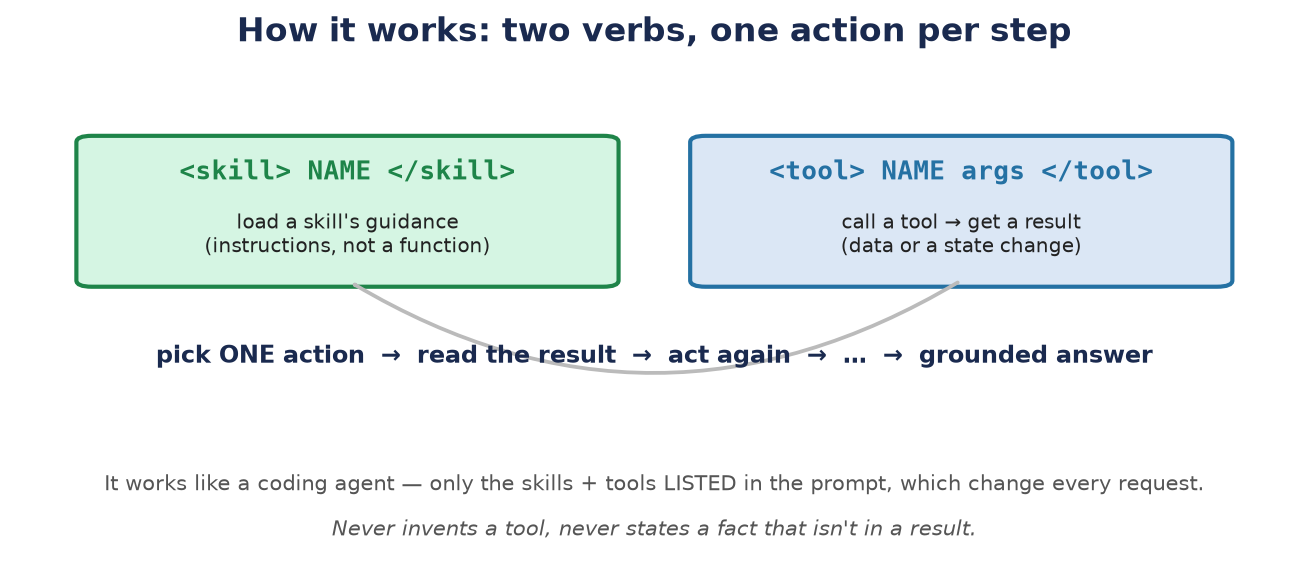
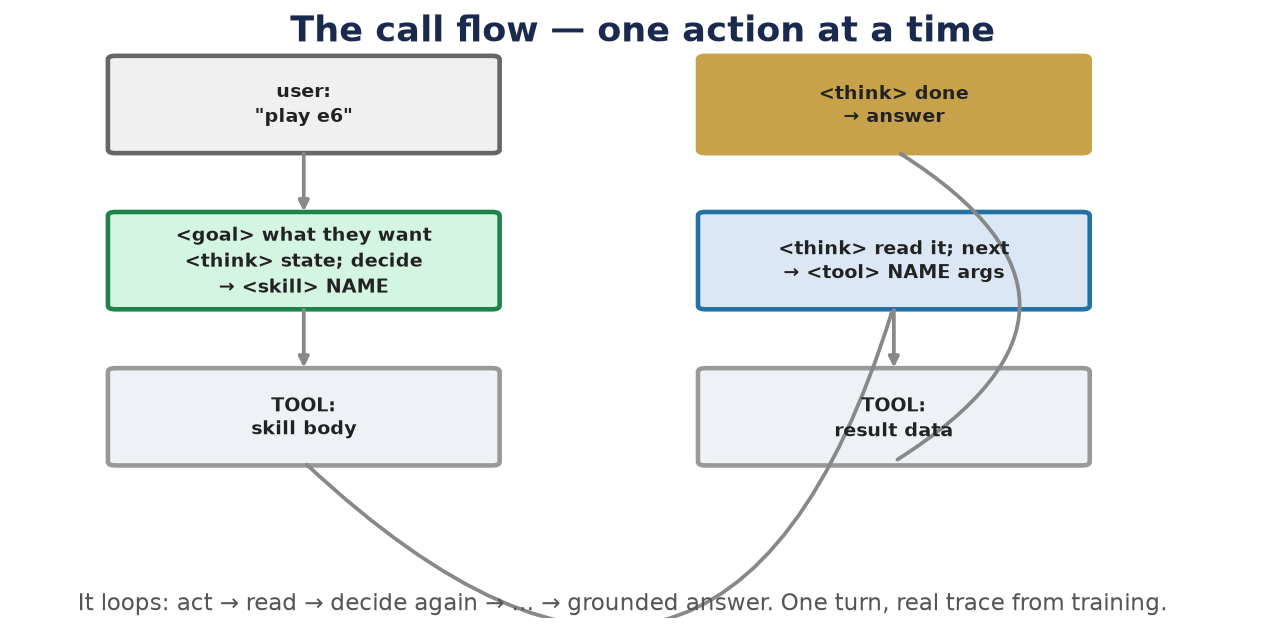
feat(report): redesigned loop/modes as visual flowcharts + restored comparison chart
User: "too much text. Stay heavy on visuals and light text! Like flow chart"

03-how-it-works: replaced the 8-panel text trace with a Z-pattern CALL-FLOW diagram —
6 boxes (user → <skill> → body → <tool> → data → answer), minimal text per node,
arrows showing the decision loop. Pure flowchart.

03b-reasoning-modes: replaced the dense example cards with CLEAN VISUAL CARDS —
just the mode name (big), one rule line (<goal>/<think> presence), and a short
example quote. No walls of text.

08-result-comparison: restored the GROUPED BAR comparison chart (E4B base+harness
49.6% vs v4 adapter+harness 88.7%, +39.1% delta, tool FP 55→7 in caption).
Replaces the old big_compare 50%→89% slide.

chart_data.py: COND_VAL updated to NATIVE numbers (88.7%/49.6%, not the stale forced-fast
96%/83%) and VERSIONS v4 verb fixed to 0.887 (was 0.964).

Changed region(s): [[0.0311, 0.0, 0.965, 0.8182], [0.0623, 0.8182, 0.9339, 0.9697]]

diff --git a/src/llm/llm_training/report/deck.py b/src/llm/llm_training/report/deck.py
@@ -1,13 +1,5 @@
-"""Presentation deck — the STORY arc (GPU-free), matching the talk: meet the model → it's local →
-small-but-thinks → how we trained it → the data → it floors out fast → (chats, shown live) → does it
-work. This module renders only the FACTUAL / DATA visuals (pipeline+knobs, the think-loop diagram, the
-real loss curve, the benchmark wins). The illustrative brand slides (meet-the-model, it's-local) are
-AI-generated by the presenter from docs/report/slide-visuals.md. stat/curve helpers live in deck_stats,
-the data chart in charts. `main()` renders the whole data set in one call.
-
-Every number traces to a real artifact: hyperparameters from run_train.py; infra from memory
-train-serve-infra-facts (Kaggle 2×T4 ×3 accounts ~135 GPU-h; serve Colab 1×T4); loss from
-runs/full_train.log; benchmarks from docs/report/README.md §3. Nothing fabricated.
+"""Presentation deck — FACTUAL/DATA visuals for the talk arc. Brand slides are AI-gen (prompts in
+slide-visuals.md). Main() renders the ordered set. All numbers from real artifacts (README §3).
   python -m llm_training.report.deck [--out docs/findings/report_assets]"""
 from __future__ import annotations
 
@@ -76,69 +68,76 @@ def pipeline(out: Path) -> Path:
 
 
 def thinks(out: Path) -> Path:
-    """The harness contract — the FACTUAL loop (system_prompt.BASE_HARNESS): two verbs, exactly ONE
-    action per step, then read the result and loop. NOT a fixed think→skill→tool chain."""
+    """CALL-FLOW diagram: the TWO-VERB loop. One real think-mode trace (slice A).
+    Minimal text per node — the visual IS the explanation."""
     plt = _plt()
-    from matplotlib.patches import FancyArrowPatch, FancyBboxPatch
-    fig, ax = plt.subplots(figsize=(11.0, 4.6)); fig.patch.set_facecolor("white")
+    from matplotlib.patches import FancyBboxPatch, FancyArrowPatch
+    fig, ax = plt.subplots(figsize=(10.8, 5.2)); fig.patch.set_facecolor("white")
     ax.set_xlim(0, 1); ax.set_ylim(0, 1); ax.axis("off")
-    ax.text(0.5, 0.95, "How it works: two verbs, one action per step", ha="center", fontsize=16,
-            fontweight="bold", color=NAVY)
-    # the two verbs
-    ax.add_patch(FancyBboxPatch((0.06, 0.50), 0.40, 0.26, boxstyle="round,pad=0.012",
-                                fc="#d5f5e3", ec="#1e8449", lw=2.0))
-    ax.text(0.26, 0.69, "<skill> NAME </skill>", ha="center", fontsize=12.5, fontweight="bold",
-            color="#1e8449", family="DejaVu Sans Mono")
-    ax.text(0.26, 0.585, "load a skill's guidance\n(instructions, not a function)", ha="center",
-            va="center", fontsize=9.5, color="#222")
-    ax.add_patch(FancyBboxPatch((0.54, 0.50), 0.40, 0.26, boxstyle="round,pad=0.012",
-                                fc="#dbe7f5", ec="#2471a3", lw=2.0))
-    ax.text(0.74, 0.69, "<tool> NAME args </tool>", ha="center", fontsize=12.5, fontweight="bold",
-            color="#2471a3", family="DejaVu Sans Mono")
-    ax.text(0.74, 0.585, "call a tool → get a result\n(data or a state change)", ha="center",
-            va="center", fontsize=9.5, color="#222")
-    # the loop: act -> read result -> act again (a return arc under the verb boxes)
-    ax.add_patch(FancyArrowPatch((0.74, 0.50), (0.26, 0.50), connectionstyle="arc3,rad=-0.30",
-                                 arrowstyle="-|>", lw=1.8, color="#bbb"))
-    ax.text(0.5, 0.345, "pick ONE action  →  read the result  →  act again  →  …  →  grounded answer",
-            ha="center", fontsize=11.5, color=NAVY, fontweight="bold")
-    ax.text(0.5, 0.105, "It works like a coding agent — only the skills + tools LISTED in the prompt, "
-            "which change every request.", ha="center", fontsize=10, color="#555")
-    ax.text(0.5, 0.02, "Never invents a tool, never states a fact that isn't in a result.",
-            ha="center", fontsize=10, color="#555", fontstyle="italic")
+    ax.text(0.5, 0.96, "The call flow — one action at a time",
+            ha="center", fontsize=17, fontweight="bold", color=NAVY)
+    # 6 nodes in a Z-pattern: user → <skill> → result → <tool> → result → answer
+    nodes = [
+        ("user:\n\"play e6\"", 0.08, 0.78, "#f0f0f0", "#666"),
+        ("<goal> what they want\n<think> state; decide\n→ <skill> NAME", 0.08, 0.52, "#d5f5e3", "#1e8449"),
+        ("TOOL:\nskill body", 0.08, 0.26, "#eef2f7", "#999"),
+        ("<think> read it; next\n→ <tool> NAME args", 0.55, 0.52, "#dbe7f5", "#2471a3"),
+        ("TOOL:\nresult data", 0.55, 0.26, "#eef2f7", "#999"),
+        ("<think> done\n→ answer", 0.55, 0.78, GOLD, GOLD),
+    ]
+    w, h = 0.30, 0.15
+    for label, x, y, fc, ec in nodes:
+        ax.add_patch(FancyBboxPatch((x, y), w, h, boxstyle="round,pad=0.006", fc=fc, ec=ec, lw=2.2))
+        ax.text(x + w/2, y + h/2, label, ha="center", va="center", fontsize=9.2,
+                color="#222", linespacing=1.3, fontweight="bold")
+    # arrows
+    _ar(ax, 0.23, 0.78, 0.23, 0.67)           # user → <skill>
+    _ar(ax, 0.23, 0.52, 0.23, 0.41)           # <skill> → body
+    _ar(ax, 0.23, 0.26, 0.70, 0.52, 80)       # body → <tool> (cross)
+    _ar(ax, 0.70, 0.52, 0.70, 0.41)           # <tool> → data
+    _ar(ax, 0.70, 0.26, 0.70, 0.78, 80)       # data → answer (cross, close loop)
+    # labels
+    fig.text(0.5, 0.12, "It loops: act → read → decide again → … → grounded answer. "
+             "One turn, real trace from training.", ha="center", fontsize=11, color="#555")
     fig.savefig(out, dpi=150, bbox_inches="tight"); plt.close(fig)
     print(f"wrote {out}", flush=True)
     return out
 
+def _ar(ax, x0, y0, x1, y1, rad=0):
+    from matplotlib.patches import FancyArrowPatch
+    if rad:
+        ax.add_patch(FancyArrowPatch((x0, y0), (x1, y1), connectionstyle=f"arc3,rad={rad/100}",
+                     arrowstyle="-|>", lw=1.8, color="#888"))
+    else:
+        ax.annotate("", (x1, y1), (x0, y0), arrowprops=dict(arrowstyle="-|>", lw=1.8, color="#888"))
 
 def modes(out: Path) -> Path:
-    """The four reasoning modes the model was trained to switch between (system_prompt._REASONING_LINE).
-    A small model that 'can't think' — taught to think only as much as the task needs."""
+    """The 4 reasoning modes as VISUAL CARDS. Big name. One rule. Example on hover."""
     plt = _plt()
     from matplotlib.patches import FancyBboxPatch
-    fig, ax = plt.subplots(figsize=(11.2, 5.0)); fig.patch.set_facecolor("white")
+    fig, ax = plt.subplots(figsize=(11.2, 4.4)); fig.patch.set_facecolor("white")
     ax.set_xlim(0, 1); ax.set_ylim(0, 1); ax.axis("off")
-    ax.text(0.5, 0.95, "Taught to think — only as much as the task needs", ha="center", fontsize=16,
+    ax.text(0.5, 0.94, "One model — four reasoning modes", ha="center", fontsize=17,
             fontweight="bold", color=NAVY)
     cards = [
-        ("FAST", "#aeb8c7", "no thinking —\nanswer directly", "“what's a fork?”"),
-        ("THINK", "#2471a3", "<think> before\nEVERY step", "careful, show-the-work"),
-        ("AUTO", "#1e8449", "<think> ONLY on\nthe hard choices", "the everyday default"),
-        ("PLAN", "#c8a24a", "<goal> + a <plan>\nchecklist, do every box", "multi-step requests"),
+        ("FAST", "#7a8699", "no <goal> · no <think>", "“push Ba6”"),
+        ("THINK", "#2471a3", "<goal> once · <think> every step", "“yo, e6 for me”"),
+        ("AUTO", "#1e8449", "<goal> once · <think> only on hard calls", "“play Qa4+ pls”"),
+        ("PLAN", "#c8a24a", "<goal> all · <plan> checklist", "“debug this; break down that”"),
     ]
-    w, gap, y, h = 0.215, 0.025, 0.30, 0.42
+    w, gap, y, h = 0.225, 0.023, 0.32, 0.48
     x0 = 0.5 - (4 * w + 3 * gap) / 2
-    for i, (name, ec, what, ex) in enumerate(cards):
+    for i, (name, ec, rule, ex) in enumerate(cards):
         x = x0 + i * (w + gap)
-        ax.add_patch(FancyBboxPatch((x, y), w, h, boxstyle="round,pad=0.012", fc="white", ec=ec, lw=2.4))
-        ax.text(x + w / 2, y + h - 0.06, name, ha="center", va="top", fontsize=14, fontweight="bold", color=ec)
-        ax.text(x + w / 2, y + h * 0.50, what, ha="center", va="center", fontsize=10, color="#222")
-        ax.text(x + w / 2, y + 0.05, ex, ha="center", va="center", fontsize=8.5,
-                color="#666", fontstyle="italic")
-    ax.text(0.5, 0.165, "Same model — it picks the mode from a signal in the prompt.",
+        ax.add_patch(FancyBboxPatch((x, y), w, h, boxstyle="round,pad=0.014", fc="white", ec=ec, lw=2.6))
+        ax.text(x + w/2, y + h - 0.08, name, ha="center", va="top", fontsize=17, fontweight="bold", color=ec)
+        ax.text(x + w/2, y + h - 0.24, rule, ha="center", va="top", fontsize=9.5, color="#333")
+        ax.text(x + w/2, y + 0.04, ex, ha="center", va="bottom", fontsize=8, color="#888",
+                fontstyle="italic")
+    ax.text(0.5, 0.17, "Same contract: <skill> loads guidance · <tool> calls a function · one per step.",
             ha="center", fontsize=11, color="#333")
-    ax.text(0.5, 0.075, "A 4B model that isn't a natural reasoner — we trained the reasoning IN, "
-            "and the restraint to not over-think.", ha="center", fontsize=10, color="#555")
+    ax.text(0.5, 0.07, "A 4B model that isn't a natural reasoner — we trained the reasoning IN, "
+            "and the restraint to not over-think.", ha="center", fontsize=9.5, color="#555")
     fig.savefig(out, dpi=150, bbox_inches="tight"); plt.close(fig)
     print(f"wrote {out}", flush=True)
     return out
@@ -173,15 +172,19 @@ def main() -> None:
     # 8 · does it work — TWO results, framed as TWO DIFFERENT QUESTIONS so they don't read as
     # comparable. EXACT numbers (88.7 / 91.7), never rounded, so they match the confusion backup and
     # don't look fudged. The 55->7 / F1 detail lives ONLY on the confusion backup (no redundant slide).
-    S.big_compare("49.6%", "88.7%", "base model", "after fine-tuning",
-                  "Q1 · Does it pick the right action?  (routing)",
-                  "Held-out chess val, n=142. The base over-fired tools (55 false-calls → 7); the "
-                  "fine-tune taught it when to load a skill vs call a tool.", o / "08-result-routing.png")
+    # 08 · comparison chart: base+harness vs adapter+harness (grouped bars, native numbers)
+    comparison_labels = {
+        "E4B base\n+ harness": {"verb": 0.496},
+        "E4B v4 adapter\n+ harness": {"verb": 0.887},
+    }
+    S.comparison(comparison_labels, o / "08-result-comparison.png",
+                 title="Does fine-tuning help? Verb accuracy (held-out val, n=142)")
+    # 09 · generalization (different test — framed as Q2 to avoid "91.7 vs 88.7 = drop" confusion)
     S.big_single("91.7%", "Q2 · Can it finish a task in a domain it never trained on?",
                  "tasks completed on real cooking / music / wellness / tax prompts (n=60, 95% grounded) — "
                  "a DIFFERENT test from Q1, so this isn't a drop from 88.7%.",
                  ["cooking", "music", "wellness", "tax"], o / "09-result-generalizes.png")
-    # BACKUP only (not in the main flow): the per-class proof. Same 88.7% as the routing slide.
+    # BACKUP (not in the main flow): the per-class proof. Same 88.7% as the comparison.
     ppt_charts.confusion_matrix(ADAPTER_CM, ["skill", "tool", "none"], o / "backup-confusion.png",
                                 CM_CAPTION, title="Where it routes right — E4B v4 adapter (val)")
     print(f"\nStory deck rendered into {o}", flush=True)

diff --git a/src/llm/llm_training/report/deck_stats.py b/src/llm/llm_training/report/deck_stats.py
@@ -24,6 +24,38 @@ def _plt():
     return plt
 
 
+def comparison(cond: dict, out: Path, title: str = "") -> Path:
+    """Grouped bars: base vs adapter verb accuracy. Shows the FINE-TUNING contribution —
+    base+harness already ~50% (the contract itself guides), adapter pushes to ~89%.
+    Only measured conditions are shown; E2B is pending (labeled)."""
+    plt = _plt()
+    labels = list(cond)
+    fig, ax = plt.subplots(figsize=(7.8, 5.0)); fig.patch.set_facecolor("white")
+    t = title or "Does the fine-tune help?  Verb accuracy on held-out val"
+    _titlebar(fig, t)
+    xs = [0, 1]
+    vals = [cond[l].get("verb", 0) for l in labels]
+    colors = [SLATE, GREEN]
+    bars = ax.bar(xs, vals, width=0.55, color=colors, edgecolor="white", lw=1)
+    for x, v in zip(xs, vals):
+        ax.text(x, v + 0.015, f"{v:.1%}", ha="center", fontsize=22, fontweight="bold",
+                color=colors[x])
+    ax.set_xticks(xs, labels, fontsize=13)
+    ax.set_ylim(0, 1.08)
+    ax.set_ylabel("verb accuracy (native, n=142)")
+    # delta annotation
+    delta = vals[1] - vals[0]
+    ax.annotate(f"+{delta:.1%}", ((xs[0]+xs[1])/2, (vals[0]+vals[1])/2),
+                ha="center", fontsize=16, color=GREEN, fontweight="bold")
+    fig.text(0.5, 0.04, "Both harness the SAME base harness — the adapter learns WHEN to load a skill "
+             f"vs call a tool. Tool false-positives 55→7.",
+             ha="center", fontsize=10, color="#555")
+    fig.subplots_adjust(bottom=0.18)
+    fig.savefig(out, dpi=150); plt.close(fig)
+    print(f"wrote {out}", flush=True)
+    return out
+
+
 def _titlebar(fig, title):
     fig.text(0.5, 0.92, title, ha="center", va="top", fontsize=17, fontweight="bold", color=NAVY)
     fig.add_artist(_line(0.34, 0.66, 0.875))

diff --git a/src/llm/llm_training/report/chart_data.py b/src/llm/llm_training/report/chart_data.py
@@ -18,12 +18,13 @@ from pathlib import Path
 
 REPO = Path(__file__).resolve().parents[4]
 
-# --- routing ablation (val), from the committed benchmark report. The e2b condition (prior
-# production model) is filled by the next measured benchmark run; until then the chart shows the two
-# E4B conditions (SFT-weights contribution). base-no-harness was dropped from the design. ---
+# --- routing ablation (val), from the 2026-06-24 NATIVE run (docs/report/README.md §3a, n=142).
+# These replace the 2026-06-21 forced-fast numbers (96%/83%) — use ONLY native where each row's
+# trained reasoning mode is honored, matching the presentation deck's 88.7%/49.6%. The e2b condition
+# (prior production model) is unmeasured — fill after eval_benchmark --e2b-adapter at native parity. ---
 COND_VAL = {
-    "e4b-v4 adapter+harness": {"verb": 0.964, "macro": 0.783, "exact": 0.739},
-    "e4b base+harness": {"verb": 0.829, "macro": 0.462, "exact": 0.176},
+    "e4b base+harness":     {"verb": 0.496},
+    "e4b-v4 adapter+harness": {"verb": 0.887},
     # "e2b adapter+harness": filled after the measured rerun (eval_benchmark --e2b-adapter ...)
 }
 
@@ -37,7 +38,7 @@ VERSIONS = [
      "fix": "up-weight control tags in loss + decode penalties OFF", "verb": None},
     {"label": "v4", "date": "2026-06-19", "repo": "RyanDev1st/gemma4-chesscoach-ckpt-v4",
      "sub": "best", "why": "names still imperfect; extend the loss weight to names + train longer",
-     "fix": "FORMAT_WEIGHT on skill/tool names + 1000 steps + hardened base harness", "verb": 0.964},
+     "fix": "FORMAT_WEIGHT on skill/tool names + 1000 steps + hardened base harness", "verb": 0.887},
 ]
 
 

diff --git a/docs/report/presentation-script.md b/docs/report/presentation-script.md
@@ -18,19 +18,17 @@ later slide. Timed to ~4:30; **always rehearse with a clock and cut from the mid
 > "But here's the one thing that matters: **it's local.** Your data is safe — it never leaves your
 > device. It's the **right tool for the job**. No more, no less."
 
-### 03 · How it works  →  `03-how-it-works.png`
-> "So how does it work? The whole thing runs on **two verbs, one action at a time.** It can **load a
-> skill** — that pulls in instructions for a task — or **call a tool** — that runs a real function and
-> gives back a result. It picks one, reads what came back, and acts again — like a coding agent. And it
-> only uses the skills and tools **listed in the prompt**, which change every request — so it's not
-> memorizing chess, it's learning to operate *any* toolset."
+### 03 · Call flow  →  `03-how-it-works.png`
+> "So how does it work? Here's the **call flow.** It works on **two verbs, one action at a time:** it
+> can load a **skill** — that pulls in instructions — or call a **tool** — that runs a real function and
+> gives back data. It picks one, reads what came back, decides if it's enough or needs another step, and
+> loops. Like a coding agent. The skills and tools are **listed in the prompt** and change every request
+> — so it's not memorizing chess, it's learning to operate *any* toolset."
 
-### 03b · Taught to think  →  `03b-reasoning-modes.png`
-> "And one small thing — even though it's a small model, **not a natural reasoner**, we trained it to
-> think. Four modes: **fast** answers right away, **think** reasons before every step, **auto** reasons
-> only on the hard choices — that's the everyday default — and **plan** breaks a multi-step request into
-> a checklist and works through it. Same model; it picks the mode from the prompt. We trained the
-> reasoning *in* — and the restraint to **not over-think**."
+### 03b · Four modes  →  `03b-reasoning-modes.png`
+> "And one small thing — even though it's a **4B model**, not a natural reasoner, we trained it to
+> think. **Four modes:** fast, think, auto, plan. **Same model** — the prompt signals which mode to use.
+> We trained the reasoning IN — and the restraint to **not over-think**."
 
 ### 04 · How we trained it  →  `04-how-trained.png`
 > "Here's how it was trained. We fine-tuned a tiny **LoRA adapter** on top — the base model stays
@@ -56,7 +54,7 @@ later slide. Timed to ~4:30; **always rehearse with a clock and cut from the mid
 > "As you can see — it picks the right skill or tool, calls the engine for the real evaluation, and
 > **explains the result instead of inventing it.** Casual, vague prompts, and it still routes correctly."
 
-### 08 · Does the training help?  →  `08-result-routing.png`
+### 08 · Does the training help?  →  `08-result-comparison.png`
 > "Does the fine-tune actually help? On held-out tests it never saw: routing accuracy went from
 > **49.6% to 88.7%.** The base model **over-fires tools** — it grabbed a tool 55 times when it should
 > have just loaded a skill; ours cut that to 7. It learned **when to act** — that's the hard part."

diff --git a/docs/findings/report_assets/README.md b/docs/findings/report_assets/README.md
@@ -11,12 +11,12 @@ both):
 
 | File | Talk beat | What it shows |
 |---|---|---|
-| `03-how-it-works.png` | the contract | the two verbs (skill/tool) + act → read → act loop, one action per step |
-| `03b-reasoning-modes.png` | "taught to think" | the 4 reasoning modes — fast / think / auto / plan |
-| `04-how-trained.png` | pipeline | train (Kaggle 2× T4) → adapter → serve + the real knobs (seq 1664, rank-16, loss-weight ×8) and why |
+| `03-how-it-works.png` | call flow | the TWO-VERB loop as a Z-pattern flowchart. User → `<skill>` → body → `<tool>` → data → answer. Real trace from training |
+| `03b-reasoning-modes.png` | 4 modes | FAST/THINK/AUTO/PLAN as visual cards — big name, one rule line, real example |
+| `04-how-trained.png` | pipeline | train (Kaggle 2× T4) → adapter → serve + knobs (seq 1664, rank-16, loss-weight ×8) and why |
 | `05-the-data.png` | the data | reasoning-mode mix + top slices + train/val totals (from `data/sft/v1_2_*.jsonl.gz`) |
-| `06-floors-out.png` | "floors out fast" | the REAL training-loss curve (`runs/full_train.log`) |
-| `08-result-routing.png` | benchmark Q1 | routing 49.6% → 88.7% (held-out val, n=142) |
+| `06-floors-out.png` | "floors out fast" | REAL training-loss curve (`runs/full_train.log`) |
+| `08-result-comparison.png` | benchmark | grouped bars: E4B base+harness 49.6% vs v4 adapter+harness 88.7% (+39.1% delta) |
 | `09-result-generalizes.png` | benchmark Q2 | 91.7% task completion on unseen domains (n=60) |
 | `backup-confusion.png` | (backup, if asked) | per-class routing matrix — the same 88.7%, proof |
 

diff --git a/docs/report/slide-visuals.md b/docs/report/slide-visuals.md
@@ -20,13 +20,13 @@ order. Your slides fill 01-02 and 07.
 |---|---|---|---|
 | 01 | *(yours)* | "gemma 4 e4b, 4-bit, 73k… small, not the superman" | **[GENERATE]** — prompt A below |
 | 02 | *(yours)* | "it's local. Your data never leaves your device. Right tool, no more no less" | **[GENERATE]** — prompt B below |
-| 03 | `03-how-it-works.png` | "how it works — two verbs, one action at a time" | **[RENDERED]** the skill/tool contract + the act→read→act loop |
-| 03b | `03b-reasoning-modes.png` | "small, not think-capable, but we trained it to think — fast / think / auto / plan" | **[RENDERED]** the 4 reasoning modes |
+| 03 | `03-how-it-works.png` | "how it works — the think loop" | **[RENDERED]** REAL trace (think-mode, slice A): user→goal+think+skill→body→think+tool→data→think+answer. 8 steps from one row |
+| 03b | `03b-reasoning-modes.png` | "taught to think — 4 modes" | **[RENDERED]** FAST/THINK/AUTO/PLAN cards with real extracted examples + <goal>/<think> rules |
 | 04 | `04-how-trained.png` | "here's the pipeline… max seq, ranks, why" | **[RENDERED]** flow + knobs+why |
 | 05 | `05-the-data.png` | "here's the distribution… the slices" | **[RENDERED]** mode mix + slices |
 | 06 | `06-floors-out.png` | "floors out quick, don't need the whole dataset… why" | **[RENDERED]** REAL loss curve |
 | 07 | *(yours)* | "how it runs [the chats]" | **YOU** — your Kaggle chat screenshots (real verbatim runs) |
-| 08 | `08-result-routing.png` | "the benchmarks — does it route right?" | **[RENDERED]** Q1, 49.6%→88.7% routing |
+| 08 | `08-result-comparison.png` | "does the fine-tune help?" | **[RENDERED]** grouped bars: E4B base+harness 49.6% vs v4 adapter+harness 88.7%, +39.1% delta. Tool false-positives 55→7 in caption |
 | 09 | `09-result-generalizes.png` | "…and does it generalize?" | **[RENDERED]** Q2, 91.7% unseen-domain |
 | — | `backup-confusion.png` | (only if asked "show the data") | **[RENDERED]** per-class matrix, the same 88.7% |
 